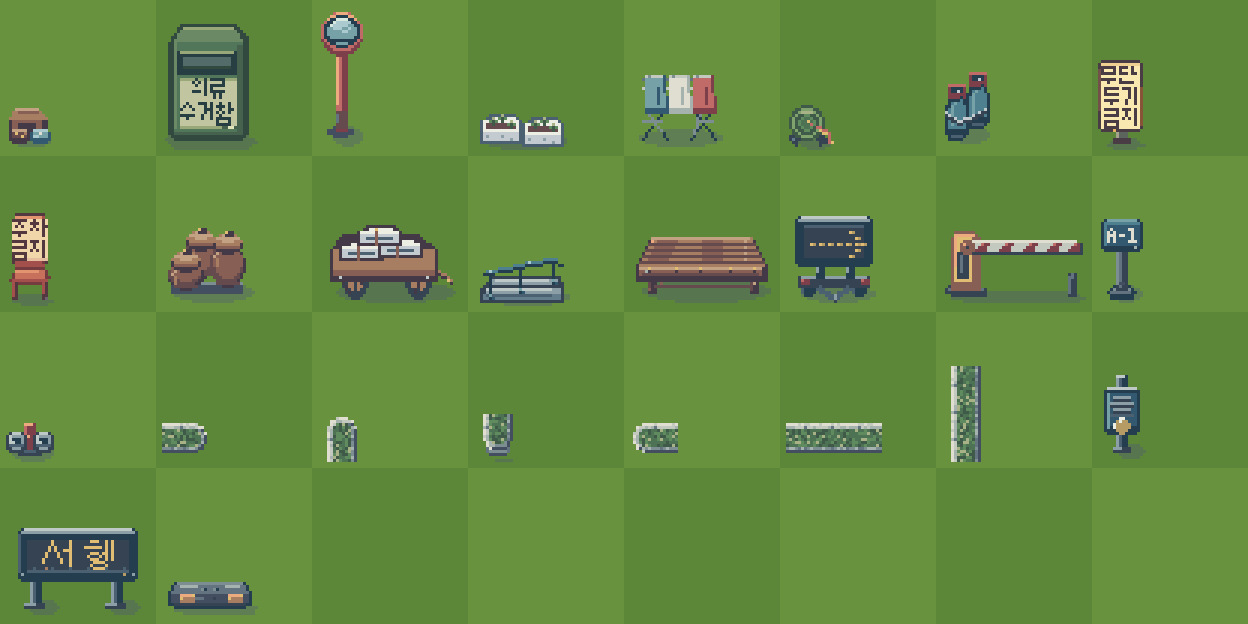
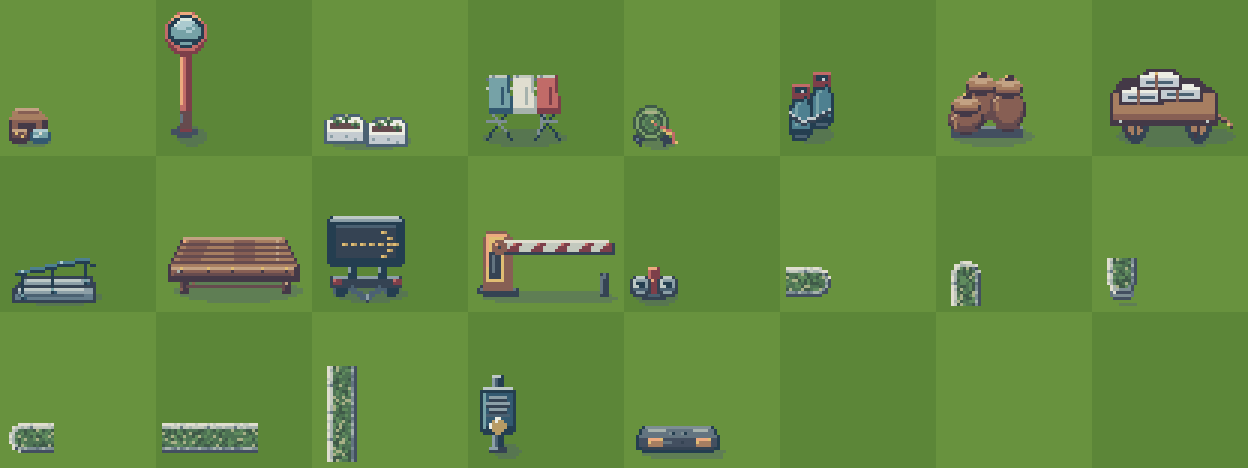
fix: 글자가 보이는 골목·주차장 기물 5종을 뺀다
무단투기 금지 표지, 주차금지 의자, 의류 수거함, 서행 전광판, 주차 구역 번호 표지는 글자가 읽혀서 카탈로그, PNG, 미리보기 시트, 출처 표에서 뺀다.

diff --git a/public/assets/ATTRIBUTION.md b/public/assets/ATTRIBUTION.md
@@ -551,6 +551,6 @@ No image-generation output and no third-party art other than the Scarloxy chip b
 
 ## Beodeul placeable objects
 
-- Files: the 422 placeable PNGs in [the Beodeul catalog](beodeul-objects/catalog.json). Each entry records the approved source filename. The existing Beodeul reference illustrations are under `beodeul-object-references/`.
+- Files: the 417 placeable PNGs in [the Beodeul catalog](beodeul-objects/catalog.json). Each entry records the approved source filename. The existing Beodeul reference illustrations are under `beodeul-object-references/`.
 - Artwork: OPRN Studio · ChatGPT dots, in the Beodeul style.
 - License: OPRN-GAME ([OPRN Game Use License](../../ASSET-LICENSE.md)).
